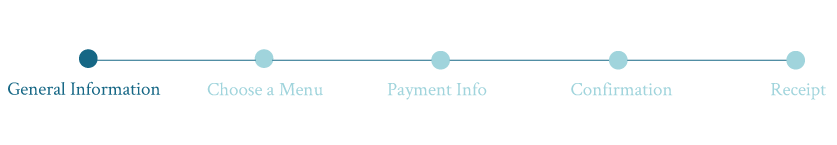
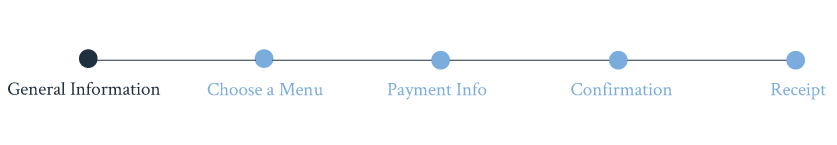
Changed some of the content in sections in the style guide
(color palette, form elements, and our services.)

diff --git a/index.html b/index.html
@@ -13,27 +13,87 @@
 
 		<div class="navbar_margin">
 			<ul class="navbar">
-				<li class="navbar_li"><a href="#home"> <img src="assets/logo.png" alt="logo" class="logo"></a></li>
+				<li class="navbar_li"><a href="#"> <img src="assets/logo.png" alt="logo" class="logo"></a></li>
+				<li class="navbar_li"><a href="#service"> Our Service </a></li>
 				<li class="navbar_li"><a href="#grid"> The Grid </a></li>
 				<li class="navbar_li"><a href="#color"> Colour Palette</a></li>
 				<li class="navbar_li"><a href="#nav"> Navigation </a></li>
 				<li class="navbar_li"><a href="#typography"> Typography </a></li>
 				<li class="navbar_li"><a href="#icons"> Icons </a></li>
 				<li class="navbar_li"><a href="#form"> Form Elements </a></li>
-				<li class="navbar_li"><a href="#service"> Our Service </a></li>
 				<li class="navbar_li"><a href="#images"> Imagery </a></li>
 			</ul>
 		</div>
 
-		<div id="home">
+		<div>
 		<br>
 		<br>
 		</div>
 
-		<h1 id="type" class="navbar_margin"> 7 TRADES Style Guide </h1>
+		<h1 class="navbar_margin"> 7 TRADES Style Guide </h1>
 
-		<div id="grid" class="navbar_margin">
-			<h2 class="h2_padding"> The Grid </h2>
+		<div class="navbar_margin">
+			<h2 id="service" class="h2_padding"> Our Service </h2>
+			<div class="box">
+				<div class="service_item">
+					<h3> Specialized in Chocolates </h3>
+					<p> At 7 Trades all our staff specializes in making cakes and pastries. But most of all have a lot of passion in the art of chocolate. We place high value in the quality of our desserts. </p>
+				</div>
+				<div class="service_item">
+					<h3> Local + Organic </h3>
+					<p> Our menu is largely based on what is in season. We try to use as many organic ingredients and local fruits as possible in our desserts. </p>
+				</div>
+				<div class="service_item">
+					<h3> Adventurous </h3>
+					<p> Our menu is constantly changing, we always try new combinations of different / new ingredients and see how they combine and chocolate. </p>
+				</div>
+			</div>
+
+			<h3> Our Menus </h3>
+			<ul>
+				<li class="same_line menu_spacing"> Spring / Summer </li>
+				<li class="same_line menu_spacing"> <h4> | </h4> </li>
+				<li class="same_line menu_spacing"> Fall / Winter </li>
+				<li class="same_line menu_spacing"> <h4> | </h4> </li>
+				<li class="same_line menu_spacing"> Cakes</li>
+			</ul>
+
+			<div class="box">
+			<div class="service_item">
+			<h3> Sample of our Menu :</h3>
+			</div>
+				<div class="service_item">
+					<h4> Spring / Summer Menu </h4>
+						<p> A la Carte </p>
+							<ul>
+								<li> Golden Bites </li>
+								<li> Blackberry Chocolate Chip Cup </li>
+								<li> Rasberry Muffin </li>
+								<li> Assorted Macarons </li>
+								<li> Assorted Berry Chocolate Tart </li>
+								<li> Raspberry Chocolate Tart </li>
+							</ul>
+						<p> Buffet Style </p>
+							<ul>
+								<li> Chocolate Lolipops </li>
+								<li> Raspberry Chocolate Mousse </li>
+								<li> Quad-layered Chocolate Mousse </li>
+								<li> Fruit and Ice Cream Chocolate Bowl </li>
+							</ul>
+				</div>
+				<div class="service_item">
+					<h4> Cakes </h4>
+						<p> Customizations are available to the cakes, please contact us to let us know!</p>
+							<ul>
+								<li> Red Velvet Cake </li>
+								<li> Orange-Choco Cake </li>
+								<li> Green Tea Dark Chocolate Opera Cake </li>
+								<li> Assorted Fruit Mille Crepe Cake </li>
+							</ul>
+				</div>
+			</div>
+
+			<h2 id="grid" class="h2_padding"> The Grid </h2>
 
 			<h3> Screen Sizes + Breakpoints</h3>
 
@@ -90,15 +150,15 @@
 			<h2 id="color" class="h2_padding"> Colour Palette</h2>
 			<div class="box">
 				<div class= "color_item">
-					<h4> Main Color </h4> 
-					<img src="assets/light_blue.jpg" alt="light_blue" height="80">
-					<p> | #68ASES </p>
+					<h4> Main Color </h4>
+					<img src="assets/dark_blue.png" alt="dark_blue" height="80">
+					<p> | #213040 </p>
 				</div>
 
 				<div class= "color_item">
-					<h4> Accent Color </h4> 
-					<img src="assets/dark_blue.png" alt="dark_blue" height="80">
-					<p> | #06506d </p>
+					<h4> Accent Color </h4>
+					<img src="assets/light_blue.png" alt="light_blue" height="80">
+					<p> | #77ADE5 </p>
 				</div>
 
 				<div class= "color_item">
@@ -134,7 +194,7 @@
 					<div class="nav_box">
 							<img class="thumbnail" src="assets/logo.png" alt="logo" width="90">
 							<a class="nav_item"> About </a>
-							<a class="nav_item"> Photos </a>
+							<a class="nav_item"> Image Gallery </a>
 							<a class="nav_item"> Menu </a>
 							<a class="nav_item"> Order </a>
 							<a class="nav_item"> Contact </a>
@@ -515,9 +575,9 @@
 			<div class="box">
 				<div class="img_item">
 					<h4> Collpased </h4>
-					<img src="assets/dropdown_1.jpg" alt="dropdown closed" class="img_small_width">
+					<img src="assets/dropdown_1.png" alt="dropdown closed" class="img_small_width">
 					<h4> Expanded </h4>
-					<img src="assets/dropdown_2.jpg" alt="dropdown open" class="img_small_width">
+					<img src="assets/dropdown_2.png" alt="dropdown open" class="img_small_width">
 				</div>
 				<div class="info_item">
 					<h4> Css Selector </h4>
@@ -559,96 +619,6 @@
 					<code>&lt;/div&gt;</code>
 					<h4> About </h4>
 					<p> There are not much icons throught the website. However, ther are social media icons used in the navigation bar. The icons are white with a light blue background and will turn dark blue when the mouse hovers over it.</p>
-				</div>
-			</div>
-
-			<h2 id="service"> Our Service </h2>
-			<div class="box">
-				<div class="service_item">
-					<h3> Unique to each event </h3>
-					<p> At Cater to Company we try to make each catering menu special to the event. Therefore, we accept special requests and theme suggestions to their menu. </p>
-				</div>
-				<div class="service_item">
-					<h3> Local + Organic </h3>
-					<p> We try our best to use our local ingredients here in British Columbia. In addition to that, we have our own vegetable farm that we get our ingredients and we incorporate those fresh ingredients into our delicous food. </p>
-				</div>
-				<div class="service_item">
-					<h3> Adventurous </h3>
-					<p> Our menu is constantly changing, even the Basic Set menu. We aim to use fresh ingredients, therefore each seasson, there are new ingredients that will be in season, and we will try to use those in the menu. </p>
-				</div>
-			</div>
-
-			<h3> Our Menus </h3>
-			<ul>
-				<li class="same_line menu_spacing"> Basic Set Menu </li>
-				<li class="same_line menu_spacing"> <h2> | </h2> </li>
-				<li class="same_line menu_spacing"> Deluxe Set Menu</li>
-				<li class="same_line menu_spacing"> <h2> | </h2> </li>
-				<li class="same_line menu_spacing"> Seasonal Menu</li>
-				<li class="same_line menu_spacing"> <h2> | </h2> </li>
-				<li class="same_line menu_spacing"> Custom Menu </li>
-			</ul>
-
-			<div class="box">
-			<div class="service_item">
-			<h3> Sample of our Menu :</h3>
-			</div>
-				<div class="service_item">
-					<h4> Basic Set Menu </h4>
-						<p> Mains (2) </p>
-							<ul>
-								<li> Garlic Soy Sauce Fried Chicken </li>
-								<li> Honey Garlic Slow Cooked Ribs </li>
-							</ul>
-						<p> Sides (4) </p>
-							<ul>
-								<li> Tofu Salad </li>
-								<li> Fried Rice</li>
-								<li> Sauteed Vegetables </li>
-								<li> One-Bite Prawns</li>
-							</ul>
-						<p> Drinks (2) </p>
-							<ul>
-								<li> Pop (Choice of: Coke, Sprite, Mountain Dew, Nestea) </li>
-								<li> Juice (Choice of: Apple, Orange, Lemon) </li>
-							</ul>
-						<p> Dessert (1) </p>
-							<ul>
-								<li> Chocolate Cake</li>
-							</ul>
-				</div>
-				<div class="service_item">
-					<h4> Custom Menu </h4>
-						<p> Choose 2 Mains:</p>
-							<ul>
-								<li> Garlic Soy Sauce Fried Chicken </li>
-								<li> Honey Garlic Slow Cooked Ribs </li>
-								<li> Sirloin Steak </li>
-								<li> Baked Lemon Salmon </li>
-							</ul>
-						<p> Choose 4 Sides: </p>
-							<ul>
-								<li> Tofu Salad </li>
-								<li> Fried Rice</li>
-								<li> Sauteed Vegetables </li>
-								<li> Mac and Cheese </li>
-								<li> Ceaser Salad </li>
-								<li> Garlic Bread </li>
-								<li> Homemade Fries  </li>
-								<li> Cheese, Ham, Crackers</li>
-							</ul>
-						<p> Choose 2 Drinks: </p>
-							<ul>
-								<li> Pop (Choice of: Coke, Sprite, Mountain Dew, Nestea) </li>
-								<li> Juice (Choice of: Apple, Orange, Lemon) </li>
-								<li> Hot Chocolate </li>
-								<li> Apple Cider </li>
-							</ul>
-						<p> Choose 1 Dessert: </p>
-							<ul>
-								<li> Chocolate Cake </li>
-								<li> Strawberry Panna Cotta</li>
-							</ul>
 				</div>
 			</div>
 

diff --git a/css/main.css b/css/main.css
@@ -31,17 +31,17 @@ a{
 	font-family: 'Crimson Text', serif;
 	font-size: 0.9em;
 	text-decoration: none;
-	color: #77ADE5;
-	transition: color 1s;
+	color: #213040;
+	transition: color 0.2s;
 }
 
 a:active, a:hover, a:focus{
-	color: #213040;
+	color: #77ADE5;
 	text-decoration: underline;
 }
 
 button{
-	background-color: #A1D3DA;
+	background-color: #213040;
     border: none;
     color: white;
     padding: 15px 32px;
@@ -50,11 +50,11 @@ button{
     font-family: "Crimson Text";
     font-size: 0.6em;
     letter-spacing: 0.15em;
-    transition: background-color 1s;
+    transition: background-color 0.2s;
 }
 
 button:active, button:hover, button:focus{
-	background-color: #06506d;
+	background-color: #77ADE5;
 }
 
 /* --- NAV BAR --- */
@@ -94,7 +94,6 @@ button:active, button:hover, button:focus{
 .logo{
 	background-color: #E7E7E7;
 	width: 7rem;
-	height: 7rem;
 	margin-bottom: 2rem;
 }
 
@@ -212,19 +211,19 @@ button:active, button:hover, button:focus{
 }
 
 .social_media{
-	background-color: #A1D3DA;
-	transition: background-color 1s;
+	background-color: #213040;
+	transition: background-color 0.4s;
 	width: 100px;
 	height: 100px;
 	margin-bottom: 5%;
 }
 
 .social_media:active, .social_media:hover, .social_media:focus{
-	background-color: #066684;
+	background-color: #77ADE5;
 }
 
 .label_example{
-	color: #A1D3DA;
+	color: #213040;
 	text-transform: uppercase;
 	letter-spacing: 0.05rem;
 	font-size: 0.8rem;
@@ -233,7 +232,7 @@ button:active, button:hover, button:focus{
 input[type=text], select {
     width: 70%;
     padding: 0.5rem 1rem;
-    border: 1px solid #A1D3DA;
+    border: 1px solid #77ADE5;
 }
 
 .checkboxes{
@@ -241,7 +240,7 @@ input[type=text], select {
 }
 
 .submit_button{
-	background-color: #A1D3DA;
+	background-color: #213040;
 	padding: 1rem 3rem 1rem 3rem;
 	color: white;
 	text-transform: uppercase;
